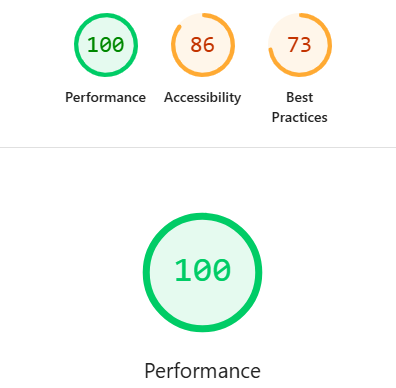
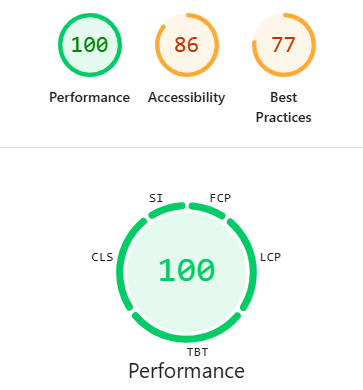
Remove some images from menu to improve lighthouse performance

diff --git a/menu.html b/menu.html
@@ -409,7 +409,7 @@
             </div>
           </div>
 
-          <!-- Dish 13 -->
+          <!-- Dish 13
           <div class="col-md-4 mb-5">
             <div class="card shadow-sm h-100">
               <img
@@ -431,9 +431,9 @@
                 <p class="card-text fw-bold">£25.99</p>
               </div>
             </div>
-          </div>
+          </div> -->
 
-          <!-- Dish 14 -->
+          <!-- Dish 14
           <div class="col-md-4 mb-5">
             <div class="card shadow-sm h-100">
               <img
@@ -456,9 +456,9 @@
                 <p class="card-text fw-bold">£9.99</p>
               </div>
             </div>
-          </div>
+          </div> -->
 
-          <!-- Dish 15 -->
+          <!-- Dish 15
           <div class="col-md-4 mb-5">
             <div class="card shadow-sm h-100">
               <img
@@ -481,9 +481,9 @@
                 <p class="card-text fw-bold">£12.99</p>
               </div>
             </div>
-          </div>
+          </div> -->
 
-          <!-- Dish 16 -->
+          <!-- Dish 16
           <div class="col-md-4 mb-5">
             <div class="card shadow-sm h-100">
               <img
@@ -505,9 +505,9 @@
                 <p class="card-text fw-bold">£10.99</p>
               </div>
             </div>
-          </div>
+          </div> -->
 
-          <!-- Dish 17 -->
+          <!-- Dish 17
           <div class="col-md-4 mb-5">
             <div class="card shadow-sm h-100">
               <img
@@ -530,9 +530,9 @@
                 <p class="card-text fw-bold">£13.99</p>
               </div>
             </div>
-          </div>
+          </div> -->
 
-          <!-- Dish 18 -->
+          <!-- Dish 18
           <div class="col-md-4 mb-5">
             <div class="card shadow-sm h-100">
               <img
@@ -555,7 +555,7 @@
                 <p class="card-text fw-bold">£13.99</p>
               </div>
             </div>
-          </div>
+          </div> -->
         </div>
       </section>
     </main>